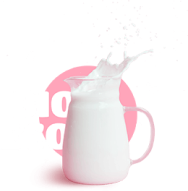
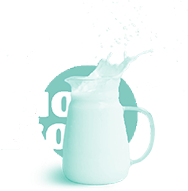
all recolored

diff --git a/src/sass/_variables.scss b/src/sass/_variables.scss
@@ -1,6 +1,6 @@
 $color_white: #ffffff;
 $color_black: #000000;
-$color_main_pink: #b9fdef;
+$color_main_pink: #90eedb;
 $color_secondary_pink: #84c5b8;
 $color_light_pink: #f5fffe;
 $color_social_icons_pink: #a5fedc;
